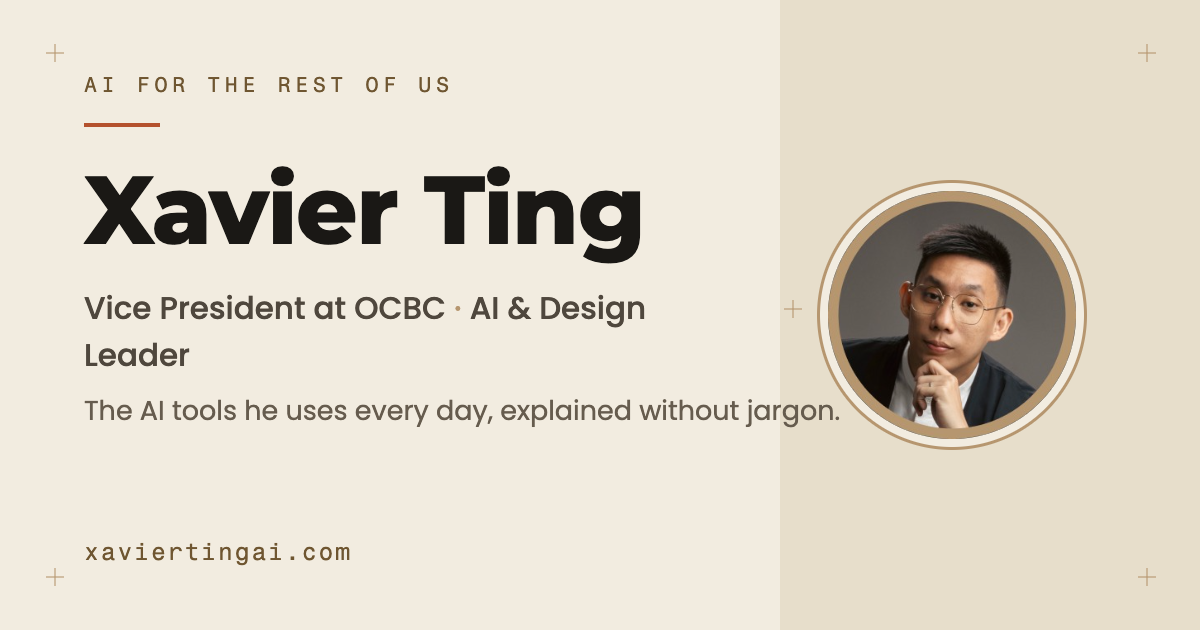
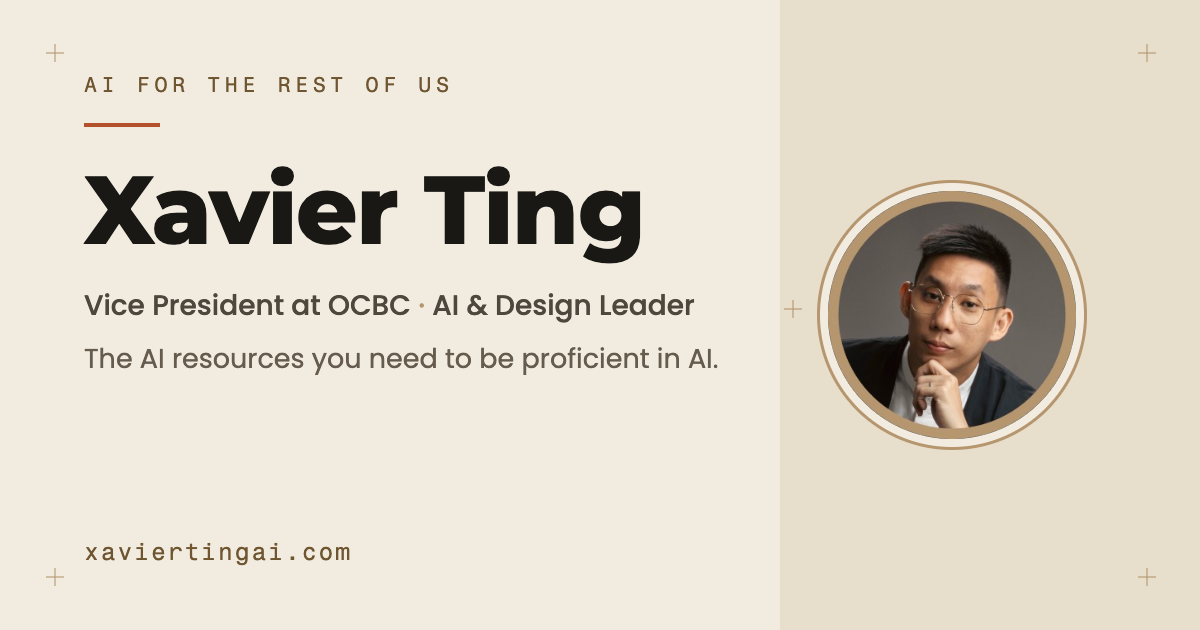
Put the share card's promise in the reader's words
The tagline described Xavier: the AI tools he uses every day. On a card whose
whole job is to make a stranger click, it now says what they get out of it,
in Xavier's wording: the AI resources you need to be proficient in AI.

The card also had a layout fault worth naming, because it would have bitten
any future edit to these lines. The text frame was absolutely positioned with
no width, so it ran the full 1200px and the role line and tagline printed
across the sand panel that holds the portrait, warm type on the darker
ground. The frame now stops at 748px, which leaves 63px of clear air before
the panel begins. Capping the width orphaned "Leader" onto a second line, so
the role drops from 31px to 28px to hold one line.

Measured on the render rather than eyeballed: type reaches x=717 against a
panel edge at x=780, and the role occupies a single line.

Changed region(s): [[0.0617, 0.5429, 0.5858, 0.6032], [0.0617, 0.4524, 0.5858, 0.5127], [0.0617, 0.6333, 0.7092, 0.6937]]

diff --git a/og/og-image.html b/og/og-image.html
@@ -70,10 +70,15 @@
   .cross::before { left: 8px; top: 0; width: 2px; height: 18px; }
   .cross::after  { left: 0; top: 8px; width: 18px; height: 2px; }
 
+  /* The text column stops short of the sand panel. Without a right bound the
+     frame ran the full 1200px and the role line and tagline crossed the panel
+     edge at x=780, printing warm type over the darker ground behind the
+     portrait. 84px in from the left, 60px of clear air before the panel. */
   .frame {
     position: absolute;
     inset: 0;
     padding: 72px 0 64px 84px;
+    width: 748px;
     display: flex;
     flex-direction: column;
   }
@@ -100,7 +105,8 @@
   }
   .role {
     margin-top: 26px;
-    font-size: 31px;
+    /* one line: at 31px this broke after "AI & Design", orphaning "Leader" */
+    font-size: 28px;
     font-weight: 500;
     color: var(--body);
     max-width: 640px;
@@ -151,7 +157,7 @@
     <div class="bar"></div>
     <h1>Xavier Ting</h1>
     <p class="role">Vice President at OCBC <span class="dot">·</span> AI &amp; Design Leader</p>
-    <p class="tagline">The AI tools he uses every day, explained without jargon.</p>
+    <p class="tagline">The AI resources you need to be proficient in AI.</p>
     <div class="url">xaviertingai.com</div>
   </div>
 
